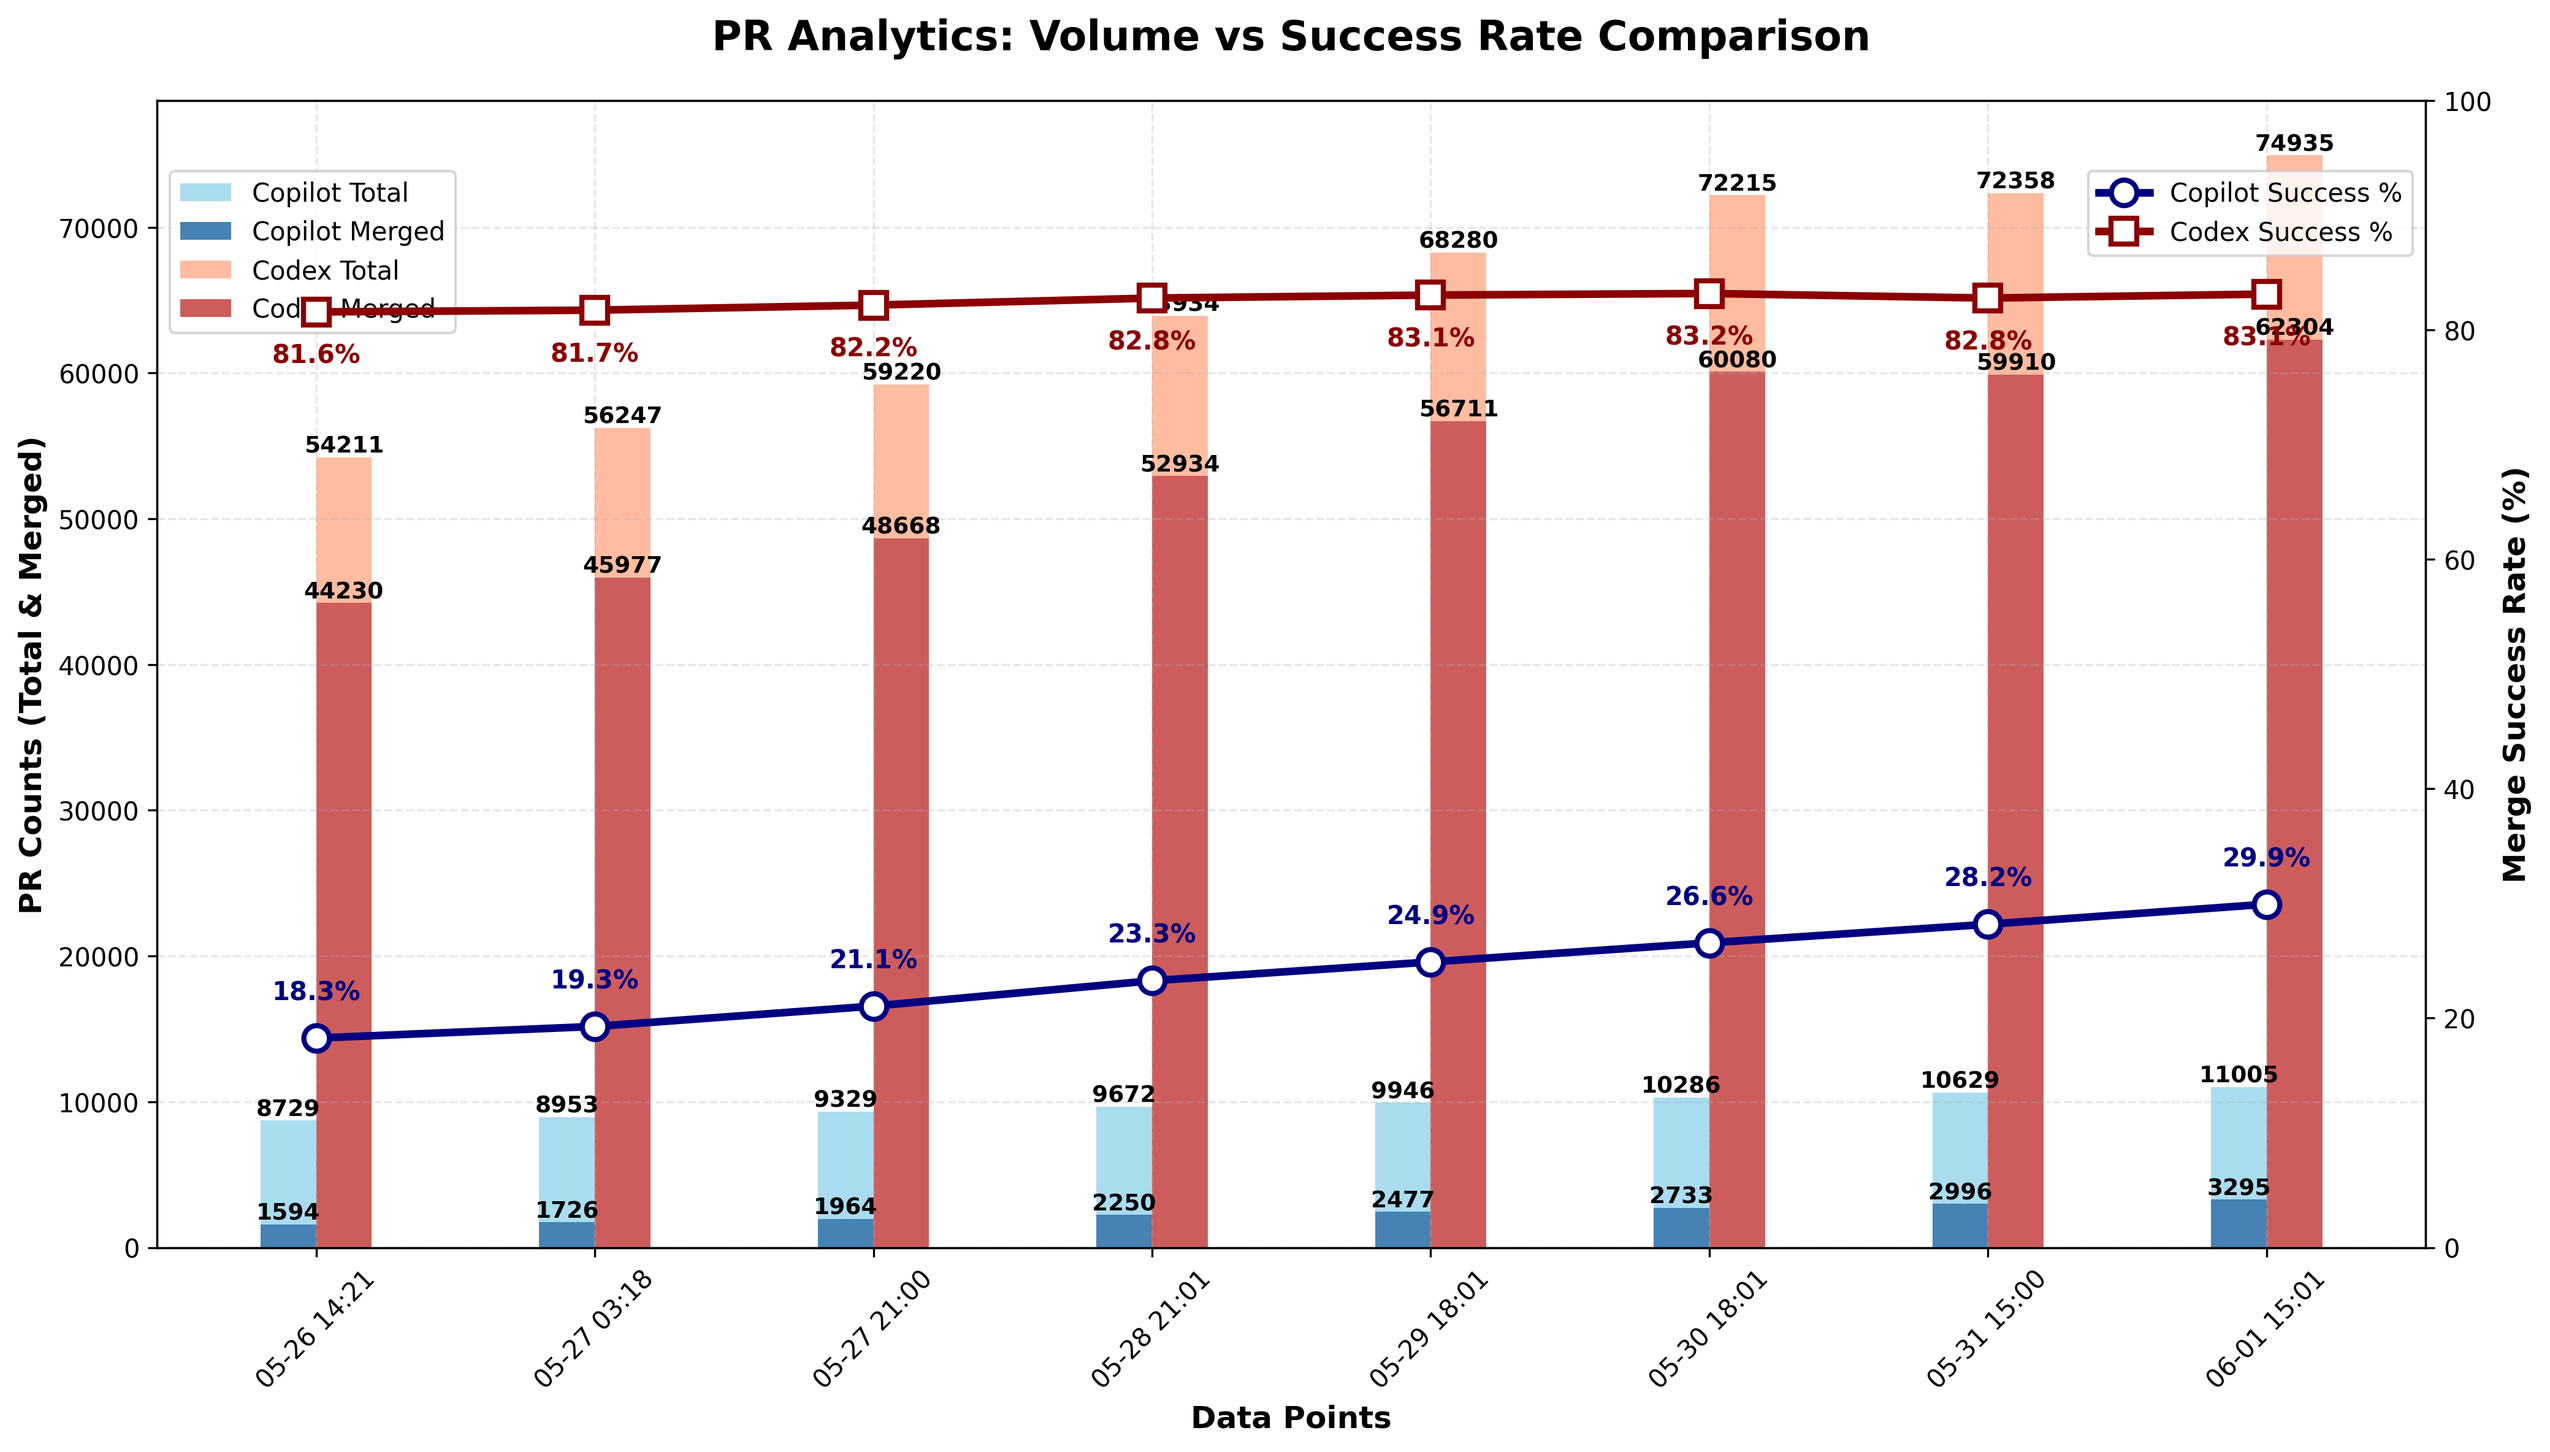
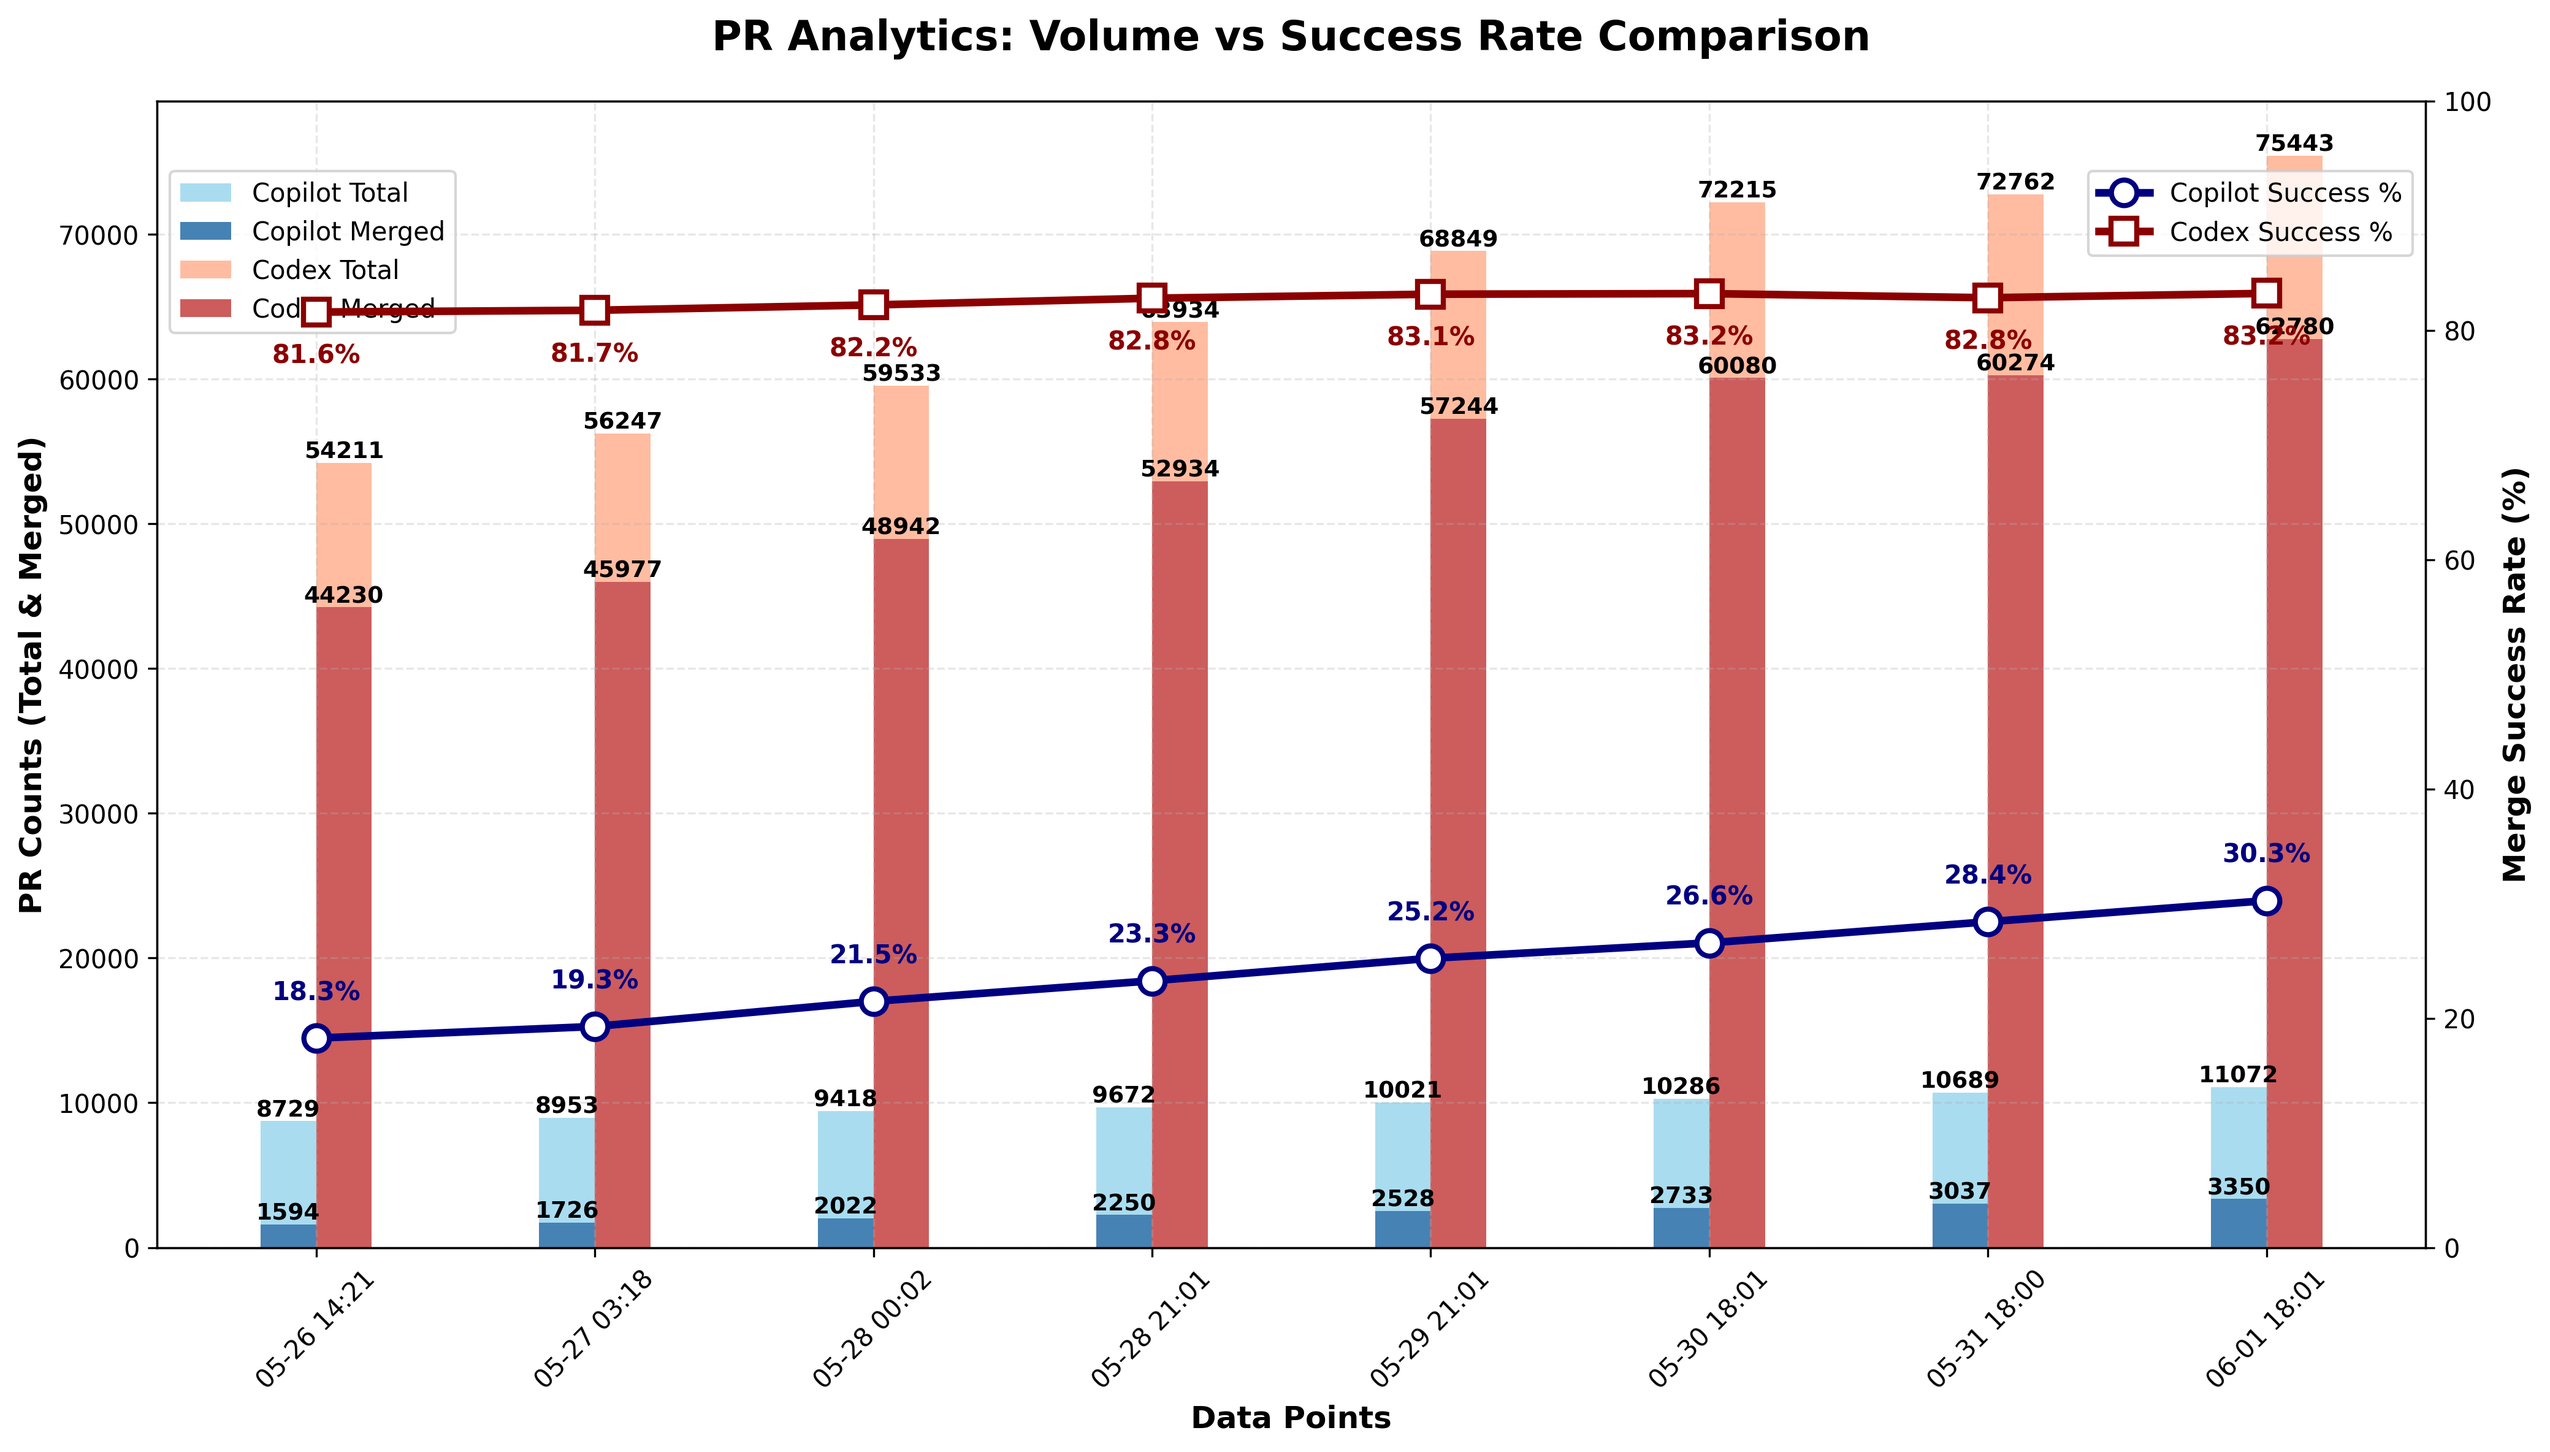
chore: update PR‑approval chart

diff --git a/docs/index.html b/docs/index.html
@@ -44,22 +44,22 @@
                 <tbody>
                     <tr>
                         <td>Copilot</td>
-                        <td>11,005</td>
-                        <td>3,295</td>
-                        <td>29.94%</td>
+                        <td>11,072</td>
+                        <td>3,350</td>
+                        <td>30.26%</td>
                     </tr>
                     <tr>
                         <td>Codex</td>
-                        <td>74,935</td>
-                        <td>62,304</td>
-                        <td>83.14%</td>
+                        <td>75,443</td>
+                        <td>62,780</td>
+                        <td>83.22%</td>
                     </tr>
                 </tbody>
             </table>
         </section>
 
         <footer>
-            <p>Last updated: <span id="last-updated">June 01, 2025 15:01 UTC</span></p>
+            <p>Last updated: <span id="last-updated">June 01, 2025 18:01 UTC</span></p>
             <p><a href="https://github.com/aavetis/ai-pr-watcher">View on GitHub</a></p>
         </footer>
     </div>

diff --git a/README.md b/README.md
@@ -19,5 +19,5 @@ Explore the GitHub search queries used:
 
 | Project | Total PRs | Merged PRs | Merge Rate |
 | ------- | --------- | ---------- | ---------- |
-| Copilot | 11,005 | 3,295 | 29.94% |
-| Codex   | 74,935 | 62,304 | 83.14% |
+| Copilot | 11,072 | 3,350 | 30.26% |
+| Codex   | 75,443 | 62,780 | 83.22% |
